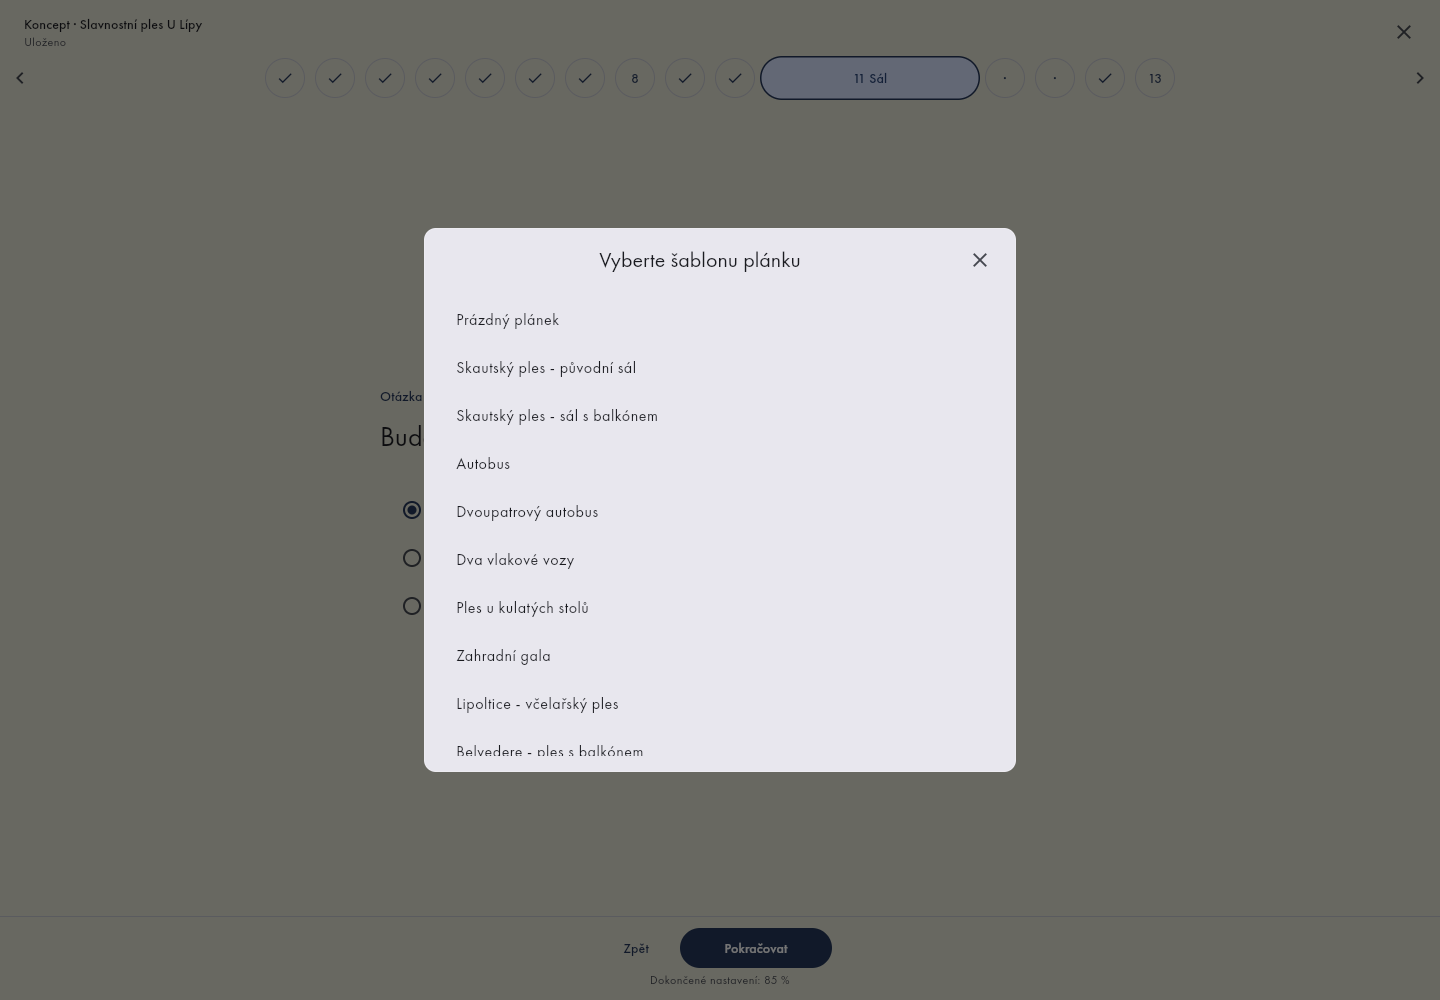
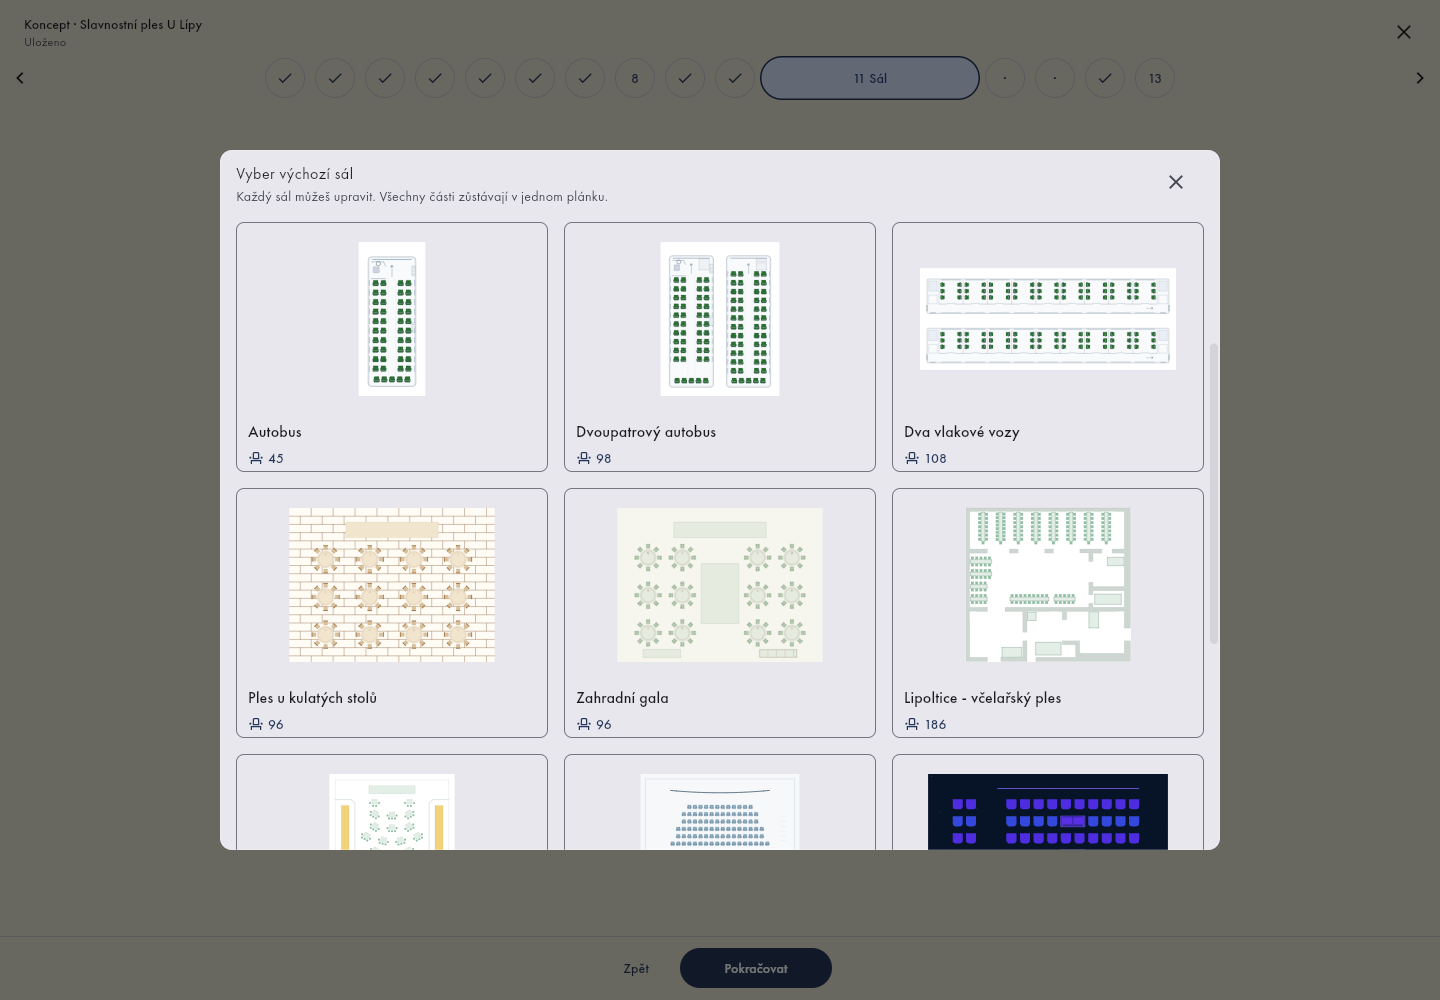
docs(help): show current visual seating template gallery

diff --git a/automation/release/help/zaciname.html b/automation/release/help/zaciname.html
@@ -3,9 +3,9 @@
 <h2 id="zaklad">Založte novou událost</h2><ol class="steps"><li><h3>Otevřete seznam akcí organizace</h3><p>Otevřete seznam akcí a zvolte <strong>Vytvořit novou událost</strong>. Postup <strong>Krok za krokem</strong> Vás provede přípravou; volba <strong>Bez průvodce</strong> slouží k rychlému založení a pozdějšímu doplnění.<span class="guide-step-link">{{APP_LINK:organization}}</span></p></li><li><h3>Vyplňte název a termín</h3><p>Zadejte skutečný začátek i konec včetně času. Konec nesmí předcházet začátku. Název se objeví ve formuláři a na vstupence, proto jej napište tak, aby návštěvník poznal správnou akci.</p></li><li><h3>Představte akci návštěvníkům</h3><p>Doplňte místo, popis a případně úvodní obrázek. Zkontrolujte adresu a praktické informace, například otevření sálu. Propagace ve veřejném přehledu je samostatná volba a vyžaduje úvodní obrázek.</p></li><li><h3>Dokončete části průvodce</h3><p>Pokračujte otázkami na nabídku a kapacity, případný <a href="#planek">plánek</a>, <a href="#vstupenka">vzhled vstupenky</a> a <a href="#platby">výběr platebního účtu</a>. Otázky se přizpůsobují zapnutým funkcím. Vše zatím patří do konceptu; samostatné návody pro změny v administraci použijte až po vytvoření akce.</p></li></ol>
 {{MEDIA:cs/setup/name}}
 {{MEDIA:cs/wizard/dates}}
-<h2 id="planek">Plánek a nabídka v průvodci</h2><p>U otázky <strong>Bude součástí prodeje plánek míst?</strong> zvolte <strong>Vytvořit nový plánek</strong>. Vyberte šablonu, například <strong>Ples u kulatých stolů</strong>, nebo prázdný plánek. V editoru upravte stoly, židle a styl. Tlačítko <strong>Uložit a vrátit se do průvodce</strong> vrací výsledek do konceptu; v našem příkladu se zobrazilo <strong>Počet míst: 97</strong>. Ještě tím nevytváříte hotovou akci. Pozdější změny již vytvořené akce popisuje <a href="/napoveda/planek-salu/">návod k úpravě plánku</a>.</p>
+<h2 id="planek">Vyberte plánek podle vizuálního náhledu</h2>
+<ol class="steps"><li><h3>Otevřete nabídku šablon</h3><p>U otázky <strong>Bude součástí prodeje plánek míst?</strong> zvolte <strong>Vytvořit nový plánek</strong>. Otevře se galerie s náhledy rozmístění stolů a sedadel. Podle obrázku, názvu a kapacity vyberte sál podobný Vašemu prostoru. Pro vlastní návrh můžete zvolit prázdný plánek.</p></li><li><h3>Upravte vybraný sál</h3><p>Kliknutím na kartu šablony otevřete její plánek v editoru. Upravte stoly, židle a styl podle skutečného sálu. Šablona je výchozí návrh, který můžete dále měnit.</p></li><li><h3>Vraťte plánek do konceptu</h3><p>Použijte <strong>Uložit a vrátit se do průvodce</strong>. V průvodci zkontrolujte výsledný počet míst. Ještě tím nevytváříte hotovou akci. Pozdější změny již vytvořené akce popisuje <a href="/napoveda/planek-salu/">návod k úpravě plánku</a>.</p></li></ol>
 {{MEDIA:cs/seating/templates}}
-{{MEDIA:cs/seating/saved}}
 <h2 id="vstupenka">Vzhled vstupenky v průvodci</h2><p>U otázky na vzhled vstupenky vyberte šablonu nebo otevřete editor. Náhled a šablona jsou součástí rozpracovaného nastavení; dokončení editoru ještě není dokončení celé akce. Po vytvoření akce pokračujte podle <a href="/napoveda/vzhled-vstupenky/">návodu k úpravě vstupenky a kontrole PDF</a>.</p>
 {{MEDIA:cs/setup/ticket-templates}}
 {{MEDIA:cs/tickets/templates}}
